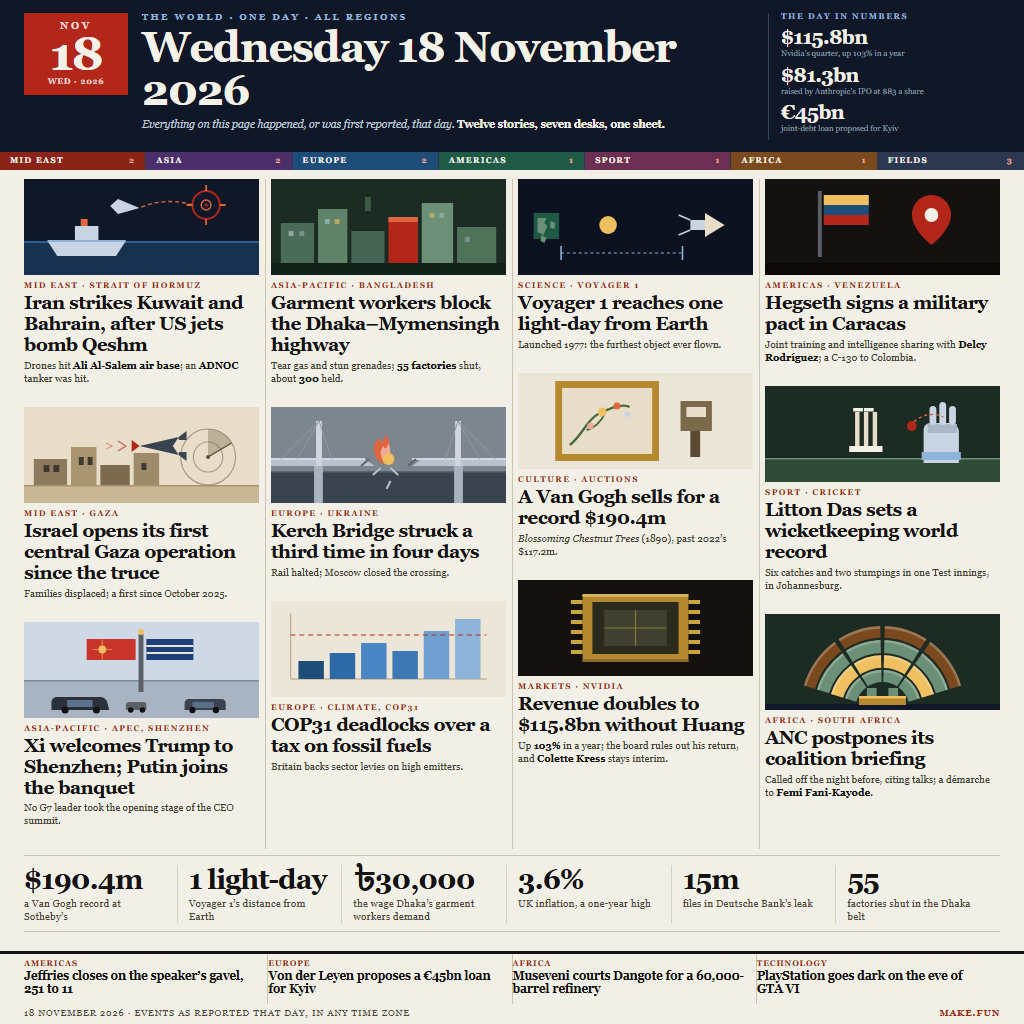
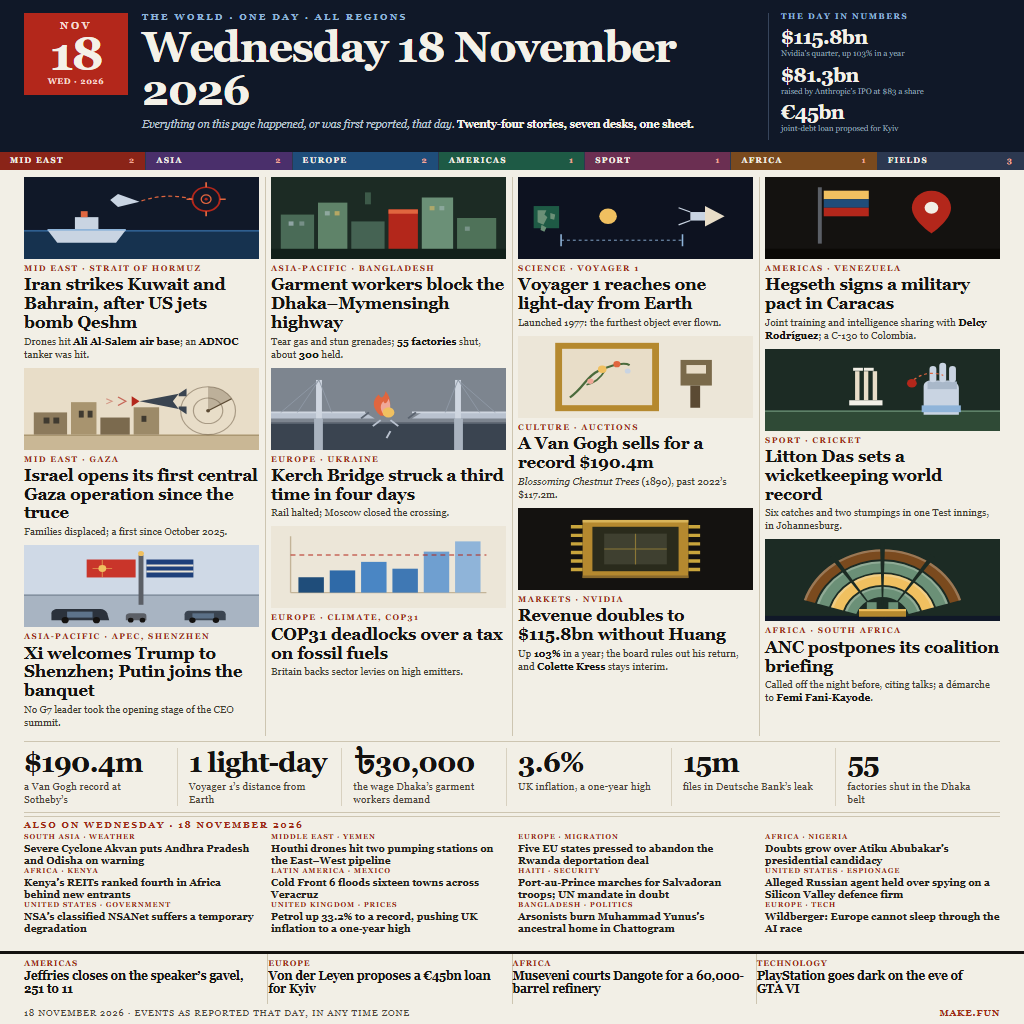
front page: an "Also on Wednesday" strip for the other twelve
The twelve illustrated cards covered the day; they did not show that they
did. Add a hairline-ruled block between the figures band and the teasers:
a red small-caps heading, then twelve more verified stories of 18 November
2026 in four columns of three — Cyclone Akvan, the Houthi pipeline drones,
the Rwanda-deal revolt, Atiku, Kenya's REITs, Cold Front 6 in Veracruz,
Port-au-Prince, the alleged Russian agent, the NSANet outage, UK fuel at
33.2%, the Yunus arson, Wildberger on the AI race.

Each entry is a red region-or-field label over a two-line 10.2px headline,
so the whole block sits in 120px. To pay for it without clipping the 1024px
frame, the illustrations go 96px -> 82px, the card headlines 18.5px ->
17px, and the gutters between cards tighten: the sheet's natural height is
now 1009px, with the last ink at row 999.

The standfirst now reads "Twenty-four stories, seven desks, one sheet",
and the count is true: twelve cards plus twelve entries.

diff --git a/src/page.html b/src/page.html
@@ -162,7 +162,7 @@
         display: grid;
         grid-template-columns: repeat(4, 1fr);
         gap: 0 12px;
-        padding: 9px 24px 0;
+        padding: 7px 24px 0;
     }
     .col {
         position: relative;
@@ -177,13 +177,13 @@
         border-left: 1px solid #cdc5b1;
     }
     .card {
-        margin-bottom: 22px;
+        margin-bottom: 7px;
     }
     .ill {
         display: block;
         width: 100%;
-        height: 96px;
-        margin-bottom: 6px;
+        height: 82px;
+        margin-bottom: 5px;
     }
     .tag {
         font-weight: 700;
@@ -194,10 +194,10 @@
         color: #a02a16;
     }
     .card h3 {
-        margin-top: 4px;
+        margin-top: 3px;
         font-weight: 700;
-        font-size: 18.5px;
-        line-height: 1.13;
+        font-size: 17px;
+        line-height: 1.11;
         letter-spacing: -0.014em;
     }
     .card p {
@@ -211,13 +211,59 @@
         color: #141210;
     }
 
+    /* ------------------------------------------------------- also on wednesday
+       The twelve stories the cards had no room for, in the same four columns:
+       one red desk label, one compact headline, twelve to a block. */
+    .also {
+        margin: 3px 24px 0;
+        padding-top: 4px;
+        border-top: 1px solid #cdc5b1;
+    }
+    .also .head {
+        margin-bottom: 4px;
+        line-height: 0;
+    }
+    .also .head b {
+        display: block;
+        font-weight: 700;
+        font-size: 9px;
+        line-height: 1;
+        letter-spacing: 0.2em;
+        text-transform: uppercase;
+        color: #a02a16;
+    }
+    .also .grid {
+        display: grid;
+        grid-template-columns: repeat(4, 1fr);
+        gap: 0 12px;
+    }
+    .also .entry {
+        margin-bottom: 1px;
+    }
+    .also .k {
+        font-weight: 700;
+        font-size: 7px;
+        line-height: 1;
+        letter-spacing: 0.13em;
+        text-transform: uppercase;
+        color: #a02a16;
+    }
+    .also .t {
+        margin-top: 2px;
+        font-weight: 700;
+        font-size: 10.2px;
+        line-height: 1.18;
+        letter-spacing: -0.008em;
+        color: #23201b;
+    }
+
     /* ------------------------------------------------------------ figures band
        Six numbers from six other stories, ruled off above and below: the
        day's arithmetic, set as a band between the grid and the teasers. */
     .figures {
         display: flex;
-        margin: 6px 24px 0;
-        padding: 9px 0 8px;
+        margin: 5px 24px 0;
+        padding: 6px 0 6px;
         border-top: 1px solid #cdc5b1;
         border-bottom: 1px solid #cdc5b1;
     }
@@ -303,7 +349,7 @@
         <div class="mast">
             <div class="k">The World &middot; One Day &middot; All Regions</div>
             <h1>Wednesday 18 November 2026</h1>
-            <div class="sub">Everything on this page happened, or was first reported, that day. <b>Twelve stories, seven desks, one sheet.</b></div>
+            <div class="sub">Everything on this page happened, or was first reported, that day. <b>Twenty-four stories, seven desks, one sheet.</b></div>
         </div>
         <div class="stats">
             <h2>The day in numbers</h2>
@@ -656,6 +702,65 @@
         <div class="cell">
             <div class="num">55</div>
             <div class="cap">factories shut in the Dhaka belt</div>
+        </div>
+    </div>
+
+    <!-- ========================================================= also on wednesday
+         The twelve stories the cards had no room for: same four columns, one
+         red desk label and one compact headline each. -->
+    <div class="also">
+        <div class="head">
+            <b>Also on Wednesday &middot; 18 November 2026</b>
+        </div>
+        <div class="grid">
+            <div class="entry">
+                <div class="k">South Asia &middot; Weather</div>
+                <div class="t">Severe Cyclone Akvan puts Andhra Pradesh and Odisha on warning</div>
+            </div>
+            <div class="entry">
+                <div class="k">Middle East &middot; Yemen</div>
+                <div class="t">Houthi drones hit two pumping stations on the East&ndash;West pipeline</div>
+            </div>
+            <div class="entry">
+                <div class="k">Europe &middot; Migration</div>
+                <div class="t">Five EU states pressed to abandon the Rwanda deportation deal</div>
+            </div>
+            <div class="entry">
+                <div class="k">Africa &middot; Nigeria</div>
+                <div class="t">Doubts grow over Atiku Abubakar&rsquo;s presidential candidacy</div>
+            </div>
+            <div class="entry">
+                <div class="k">Africa &middot; Kenya</div>
+                <div class="t">Kenya&rsquo;s REITs ranked fourth in Africa behind new entrants</div>
+            </div>
+            <div class="entry">
+                <div class="k">Latin America &middot; Mexico</div>
+                <div class="t">Cold Front 6 floods sixteen towns across Veracruz</div>
+            </div>
+            <div class="entry">
+                <div class="k">Haiti &middot; Security</div>
+                <div class="t">Port-au-Prince marches for Salvadoran troops; UN mandate in doubt</div>
+            </div>
+            <div class="entry">
+                <div class="k">United States &middot; Espionage</div>
+                <div class="t">Alleged Russian agent held over spying on a Silicon Valley defence firm</div>
+            </div>
+            <div class="entry">
+                <div class="k">United States &middot; Government</div>
+                <div class="t">NSA&rsquo;s classified NSANet suffers a temporary degradation</div>
+            </div>
+            <div class="entry">
+                <div class="k">United Kingdom &middot; Prices</div>
+                <div class="t">Petrol up 33.2% to a record, pushing UK inflation to a one-year high</div>
+            </div>
+            <div class="entry">
+                <div class="k">Bangladesh &middot; Politics</div>
+                <div class="t">Arsonists burn Muhammad Yunus&rsquo;s ancestral home in Chattogram</div>
+            </div>
+            <div class="entry">
+                <div class="k">Europe &middot; Tech</div>
+                <div class="t">Wildberger: Europe cannot sleep through the AI race</div>
+            </div>
         </div>
     </div>
 
